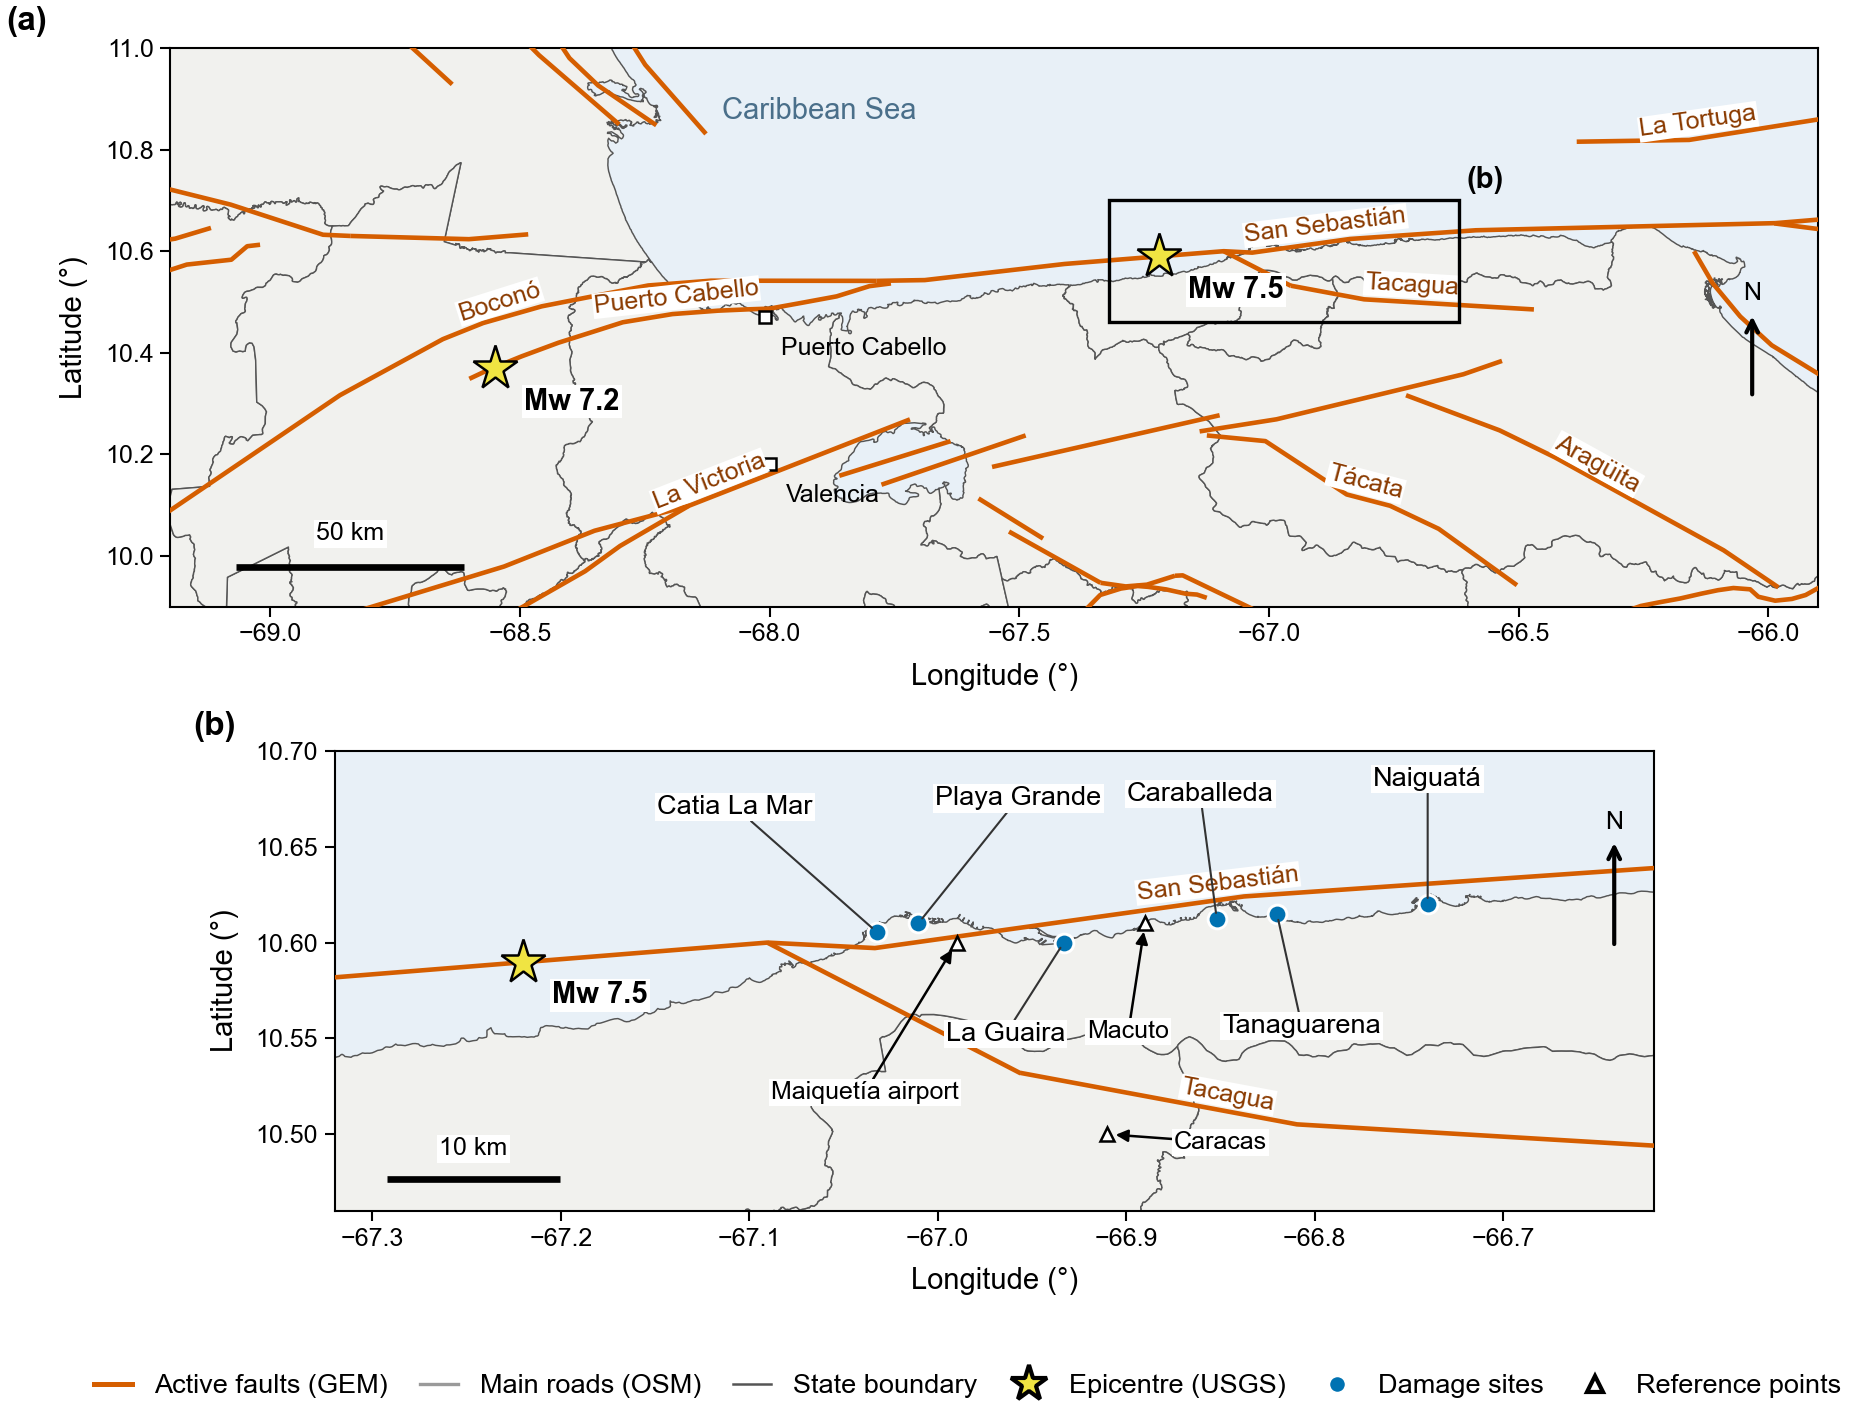
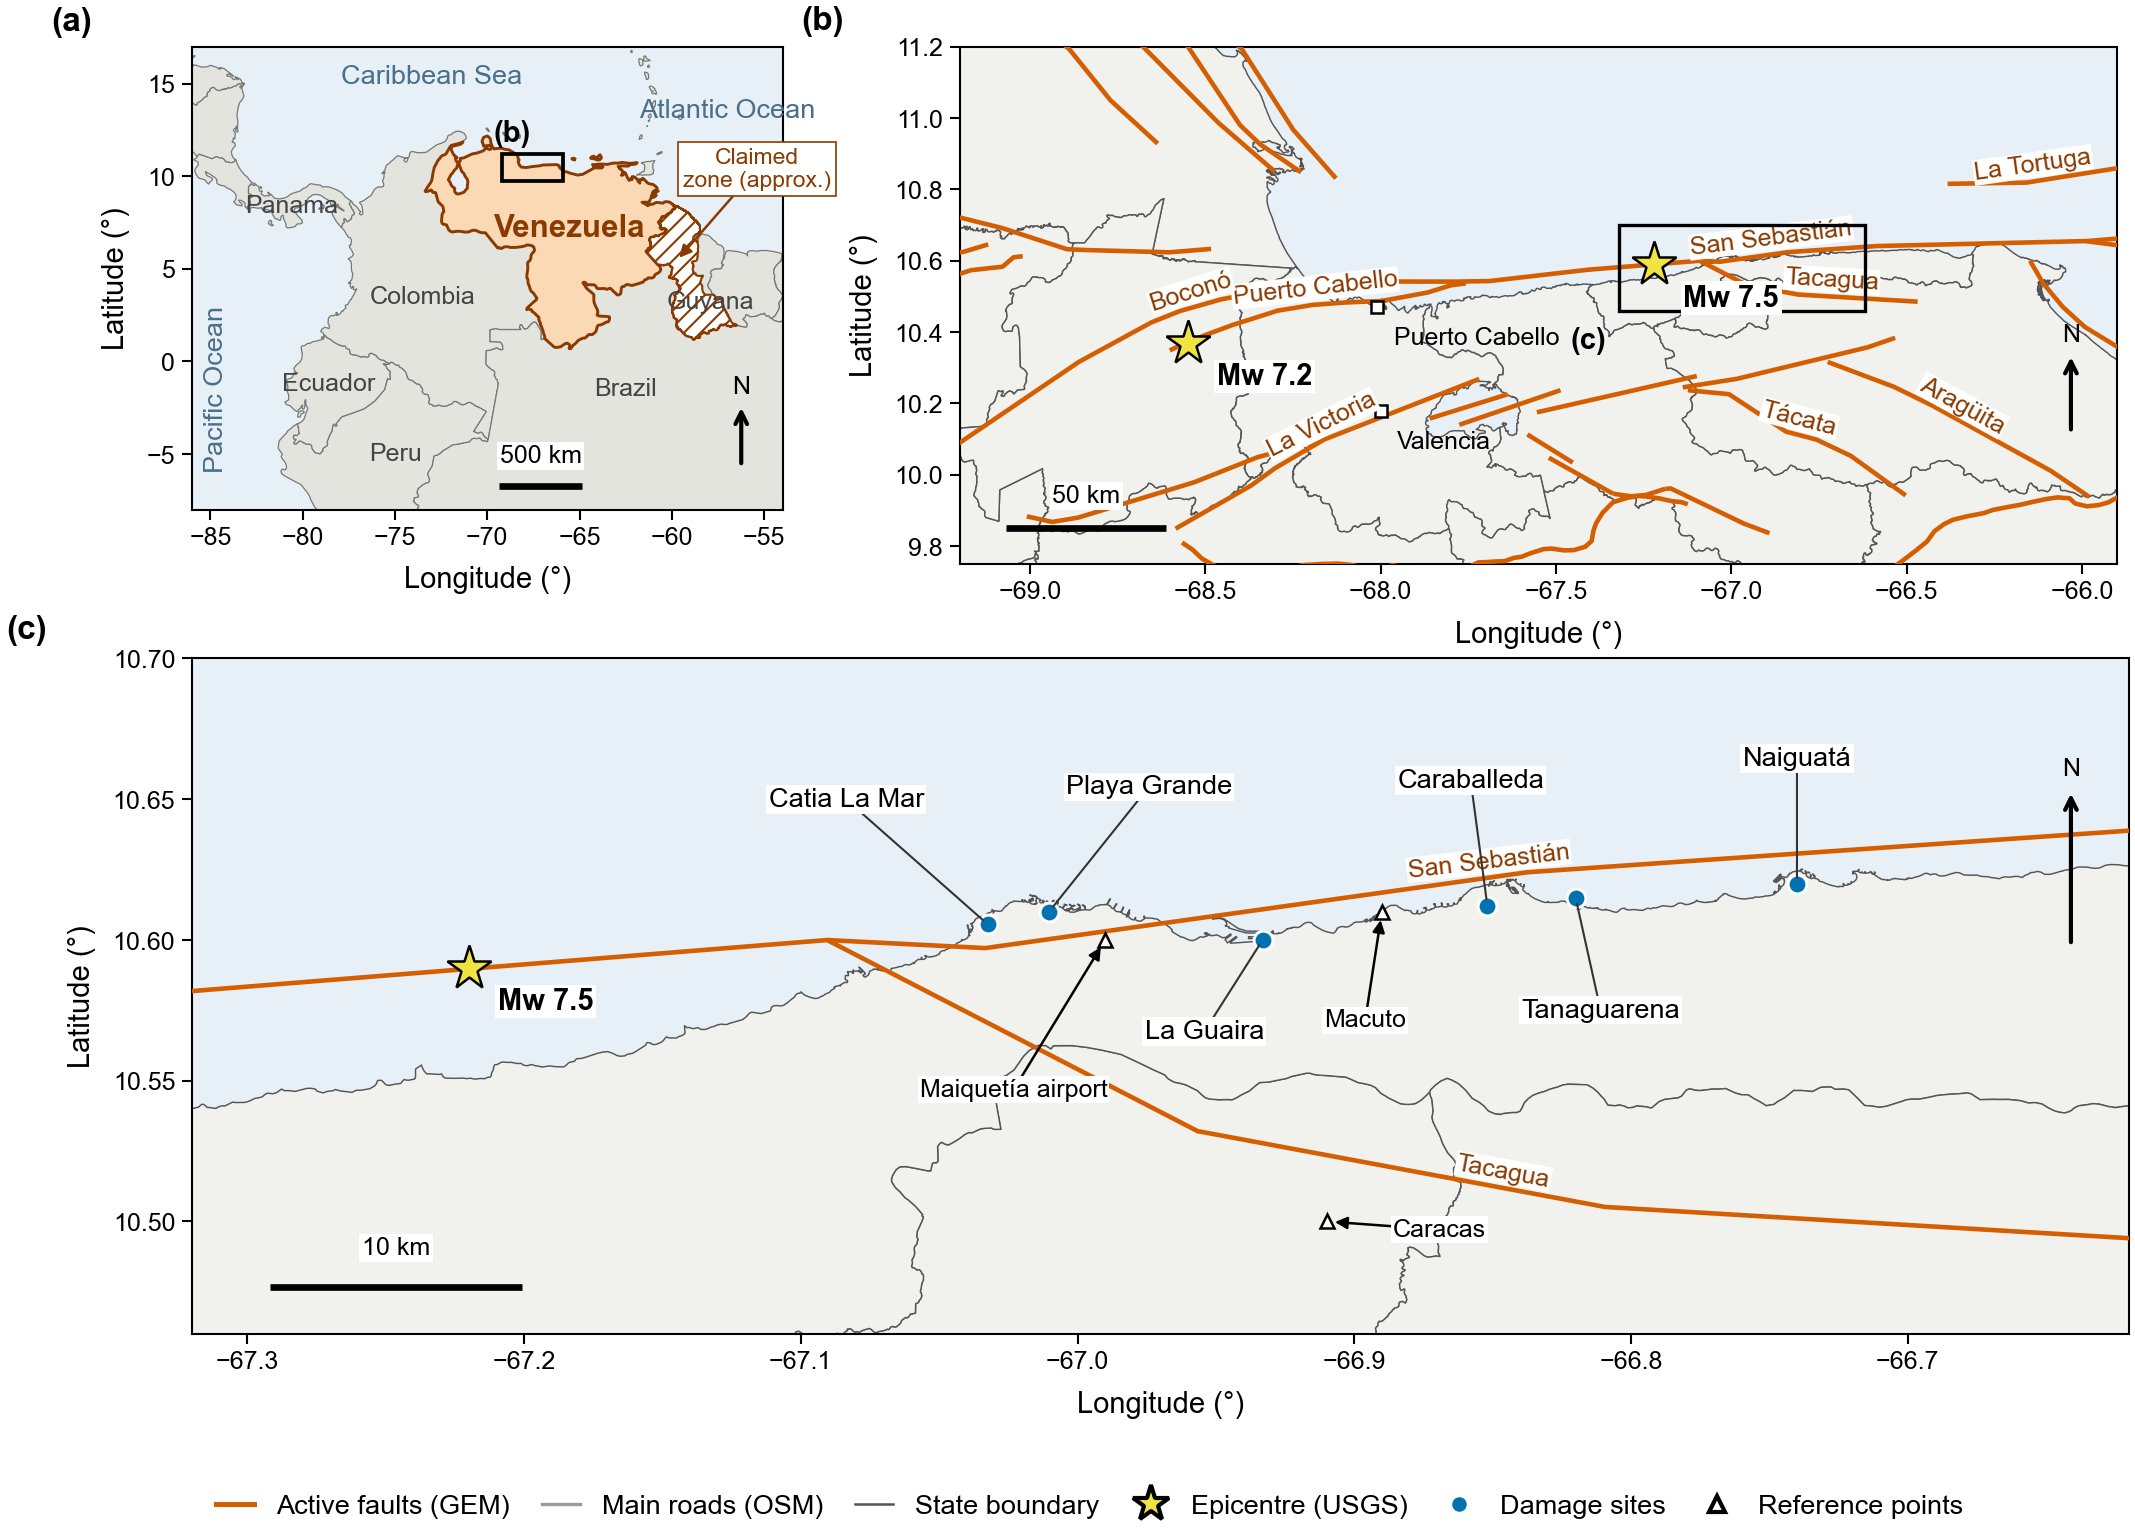
Mapa de ubicacion: 3 paneles (contexto Sudamerica, regional, costa), zona en reclamacion rayada (aprox.), tamanos a<b<c / 3-panel location map

diff --git a/src/mapa_ubicacion.py b/src/mapa_ubicacion.py
@@ -2,7 +2,7 @@
 """
 Figura de ubicación bilingüe (ES/EN) · candidata a Figura 1 / Bilingual location figure (candidate Fig. 1)
 
-(a) Regional: fallas activas, epicentros, recuadro de (b).   (b) Costa de La Guaira: 6 sitios de daño, referencias.
+(a) Contexto Sudamérica · (b) Regional: fallas, epicentros, recuadro de (c) · (c) Costa de La Guaira: 6 sitios de daño, referencias.
 Estilo / style: src/estilo_figuras.py (sin título interno, (a)(b) fuera, Okabe-Ito, SIN Esri / no Esri basemap).
 Lee / reads: <RAIZ>/01_datos_crudos/mapas_base/mapas_base.gpkg (lo crea mapas_base.py / created by mapas_base.py)
 Salida / output: <RAIZ>/04_figuras/borradores/mapa_ubicacion_{es,en}.{pdf,eps,tiff,png}
@@ -33,10 +33,13 @@ TXT.update({
     "u_sitios": {"es": "Sitios de daño", "en": "Damage sites"},
     "u_ref": {"es": "Referencias", "en": "Reference points"},
     "u_mar": {"es": "Mar Caribe", "en": "Caribbean Sea"},
+    "u_recl": {"es": "Zona en\nreclamación", "en": "Claimed\nzone (approx.)"},
+    "u_pac": {"es": "Océano Pacífico", "en": "Pacific Ocean"},
+    "u_atl": {"es": "Océano Atlántico", "en": "Atlantic Ocean"},
     "u_Playa Grande": {"es": "Playa Grande", "en": "Playa Grande"},
 })
 
-REG = (-69.2, -65.9, 9.9, 11.0)          # (a)
+REG = (-69.2, -65.9, 9.75, 11.2)          # (a)
 ZOOM = (-67.32, -66.62, 10.46, 10.70)    # (b)
 SITIOS = {  # nombre: (lat, lon, dx, dy en puntos / offsets in points) — escalonados para no solaparse / staggered
     "Catia La Mar": (10.6055, -67.0324, -34, 30), "Playa Grande": (10.6100, -67.0103, 24, 30),
@@ -58,6 +61,53 @@ def _capa(c):
 
 
 capas = {c: _capa(c) for c in ("venezuela_estados", "vias_principales_osm", "fallas_activas_gem", "epicentros_usgs")}
+MOSTRAR_RECLAMACION = globals().get("MOSTRAR_RECLAMACION", True)   # False → no dibujar la zona / do not draw the zone
+
+
+def _zona_reclamacion():
+    """Guayana Esequiba ≈ Guyana al oeste del río Esequibo. APROXIMADA: unión de regiones ADM1 de geoBoundaries
+    (Barima-Waini, Pomeroon-Supenaam, Cuyuni-Mazaruni, Potaro-Siparuni, Upper Takutu-Upper Essequibo + sur de East Berbice-Corentyne 'Tigri'). Reemplazar por el polígono oficial si se dispone.
+    Approximate 'zona en reclamación' (Essequibo claim area); replace with the official polygon if available."""
+    # 1) polígono oficial aportado por el usuario (si existe) / user-supplied official polygon (if present)
+    import glob
+    for f in sorted(glob.glob(os.path.join(os.path.dirname(GPKG), "zona_reclamacion_oficial.*"))):
+        if f.lower().endswith((".shp", ".geojson", ".json", ".gpkg")):
+            try:
+                return gpd.read_file(f).to_crs(4326)
+            except Exception as e:
+                print("[!] no pude leer / cannot read", f, e)
+    g = _capa("zona_reclamacion_aprox2")
+    if g is not None:
+        return g
+    try:
+        import io, requests
+        h = {"User-Agent": "GUAIRA-SAR research (github.com/jf-floresriera/SAR_multifrequency)"}
+        m = requests.get("https://www.geoboundaries.org/api/current/gbOpen/GUY/ADM1/", headers=h, timeout=60).json()
+        r = requests.get(m["gjDownloadURL"], headers=h, timeout=120); r.raise_for_status()
+        a = gpd.read_file(io.BytesIO(r.content)).to_crs(4326)
+        from shapely.geometry import box as _bx
+        oeste = a[a.shapeName.isin(["Barina-Waini", "Pomeroon-Supenaam", "Cuyuni-Mazaruni", "Potaro-Siparuni",
+                                    "Upper Takutu-Upper Essequibo"])].geometry.unary_union
+        tigri = a[a.shapeName == "East Berbice-Corentyne"].geometry.unary_union.intersection(_bx(-60, 0, -56, 3.6))
+        g = gpd.GeoDataFrame({"nombre": ["Zona en reclamación (aprox.)"]}, geometry=[oeste.union(tigri)], crs=4326)
+        try:
+            g.to_file(GPKG, layer="zona_reclamacion_aprox2", driver="GPKG")
+        except Exception:
+            pass
+        return g
+    except Exception as e:
+        print("[!] zona en reclamación:", e)
+        return None
+
+
+capas["paises"] = _capa("paises_sudamerica_ne50")
+if capas["paises"] is None:      # respaldo: bajar directamente / fallback: download directly
+    try:
+        from shapely.geometry import box as _box
+        _g = gpd.read_file("https://raw.githubusercontent.com/nvkelso/natural-earth-vector/master/geojson/ne_50m_admin_0_countries.geojson")
+        capas["paises"] = _g[_g.intersects(_box(-95, -60, -50, 20))]
+    except Exception as _e:
+        print("[!] sin mapa de contexto / no context map:", _e)
 
 
 def _escala(ax, km, loc=(0.04, 0.07)):
@@ -109,7 +159,7 @@ def _nombres_fallas(ax, ext, min_frac=0.12, size=6, pos=0.5):
             mejor[nom] = g
     umbral = min_frac * (ext[1] - ext[0])
     for nom, g in mejor.items():
-        if g.length < umbral:
+        if g.length < umbral or len(nom) > 16:      # rótulos largos no caben / long names do not fit
             continue
         p0, p1 = g.interpolate(pos - 0.05, normalized=True), g.interpolate(pos + 0.05, normalized=True)
         ang = np.degrees(np.arctan2((p1.y - p0.y), (p1.x - p0.x) * asp))
@@ -133,25 +183,84 @@ def _epicentros(ax, ext, etiquetas=True):
                             fontweight="bold", zorder=9, bbox=dict(fc="white", ec="none", pad=0.6, alpha=1))
 
 
+PAISES = {  # ADMIN de Natural Earth → (es, en, lon, lat): rótulos del mapa de contexto / context-map labels
+    "Colombia": ("Colombia", "Colombia", -73.5, 3.5), "Brazil": ("Brasil", "Brazil", -62.5, -1.5),
+    "Guyana": ("Guyana", "Guyana", -57.9, 3.2), "Panama": ("Panamá", "Panama", -80.6, 8.4),
+    "Ecuador": ("Ecuador", "Ecuador", -78.6, -1.2), "Peru": ("Perú", "Peru", -75.0, -5.0)}
+CTX = (-86.0, -54.0, -8.0, 17.0)         # (a) contexto continental / continental context
+
+
+def _contexto(ax, idioma):
+    """(a) Sudamérica y el Caribe: Venezuela resaltada + recuadro de (b)."""
+    ax.set_facecolor(C["mar"])
+    p = capas["paises"]
+    if p is not None:
+        p.plot(ax=ax, facecolor="#e4e4df", edgecolor="#777777", lw=0.3, zorder=1)
+        p[p.ADMIN == "Venezuela"].plot(ax=ax, facecolor="#fbd9b5", edgecolor="#8a3a00", lw=0.7, zorder=2)
+    if MOSTRAR_RECLAMACION:
+        z = _zona_reclamacion()
+        if z is not None:
+            plt.rcParams["hatch.linewidth"] = 0.5
+            # rayada, sin relleno de Venezuela: se distingue del país / hatched, not Venezuela's fill colour
+            z.plot(ax=ax, facecolor="white", edgecolor="#8a3a00", hatch="//////", lw=0.5, zorder=3)
+            ax.annotate(T("u_recl", idioma), xy=(-59.6, 5.6), xytext=(-55.4, 10.4), textcoords="data", fontsize=5.5,
+                        ha="center", va="center", color="#8a3a00", zorder=7,
+                        bbox=dict(fc="white", ec="#8a3a00", lw=0.4, pad=1.2),
+                        arrowprops=dict(arrowstyle="-|>", lw=0.6, color="#8a3a00", mutation_scale=6, shrinkA=0, shrinkB=0))
+    ax.set_xlim(CTX[0], CTX[1]); ax.set_ylim(CTX[2], CTX[3])
+    ax.set_aspect(1 / np.cos(np.radians((CTX[2] + CTX[3]) / 2)))
+    for k, (es, en, lo, la) in PAISES.items():
+        ax.text(lo, la, es if idioma == "es" else en, fontsize=6, ha="center", va="center", color="#444444", zorder=4)
+    ax.text(-65.6, 7.2, "Venezuela", fontsize=7.5, fontweight="bold", ha="center", va="center", color="#8a3a00", zorder=5)
+    ax.text(-73.0, 15.0, T("u_mar", idioma), fontsize=6.5, ha="center", color="#4a6f8a", zorder=4)
+    ax.text(-84.7, -1.5, T("u_pac", idioma), rotation=90, va="center", fontsize=6.5, ha="center", color="#4a6f8a", zorder=4)
+    ax.text(-57.0, 13.2, T("u_atl", idioma), fontsize=6.5, ha="center", color="#4a6f8a", zorder=4)
+    ax.add_patch(Rectangle((REG[0], REG[2]), REG[1] - REG[0], REG[3] - REG[2], fill=False, ec="k", lw=0.9, zorder=7))
+    ax.annotate("(b)", (REG[0], REG[3]), xytext=(-2, 3), textcoords="offset points", fontsize=7, fontweight="bold", zorder=8)
+    ax.tick_params(length=2.5, pad=1.5)
+    _escala(ax, 500, loc=(0.52, 0.05)); flecha_norte(ax, loc=(0.93, 0.22), largo=0.12)
+    ax.set_xlabel(T("longitud", idioma)); ax.set_ylabel(T("latitud", idioma))
+
+
 def _mapa(idioma):
     aplicar_estilo(7)
-    fig = plt.figure(figsize=(180 / 25.4, 128 / 25.4))
-    gs = fig.add_gridspec(2, 1, height_ratios=[1.0, 0.82], hspace=0.28)
-    a = fig.add_subplot(gs[0]); b = fig.add_subplot(gs[1])
+    W, H = 180.0, 140.0                                  # mm = tamaño final / final size
 
-    # (a) regional
+    def _eje(x, y, w, h):
+        return fig.add_axes([x / W, y / H, w / W, h / H])
+    fig = plt.figure(figsize=(W / 25.4, H / 25.4))
+    c_w = 50.0; c_h = c_w * (CTX[3] - CTX[2]) / ((CTX[1] - CTX[0]) * np.cos(np.radians((CTX[2] + CTX[3]) / 2)))
+    a_w = 98.0; a_h = a_w * (REG[3] - REG[2]) / ((REG[1] - REG[0]) * np.cos(np.radians((REG[2] + REG[3]) / 2)))
+    b_w = 164.0; b_h = b_w * (ZOOM[3] - ZOOM[2]) / ((ZOOM[1] - ZOOM[0]) * np.cos(np.radians((ZOOM[2] + ZOOM[3]) / 2)))
+    fila1 = max(c_h, a_h)
+    y_b = 17.0                                           # deja sitio a eje x y leyenda / room for x-axis and legend
+    y_top = y_b + b_h + 8.0                             # separación entre filas / row gap
+    c = _eje(14.0, y_top + fila1 - c_h, c_w, c_h)
+    a = _eje(14.0 + c_w + 15.0, y_top + fila1 - a_h, a_w, a_h)
+    b = _eje(14.0, y_b, b_w, b_h)
+    fig.set_size_inches(W / 25.4, (y_top + fila1 + 5.0) / 25.4)
+    # reescalar posiciones a la altura final / rescale positions to final height
+    H2 = y_top + fila1 + 5.0
+    for ax_, (x_, y_, w_, h_) in ((c, (14.0, y_top + fila1 - c_h, c_w, c_h)), (a, (14.0 + c_w + 15.0, y_top + fila1 - a_h, a_w, a_h)),
+                                  (b, (14.0, y_b, b_w, b_h))):
+        ax_.set_position([x_ / W, y_ / H2, w_ / W, h_ / H2])
+
+    # (a) contexto continental / continental context
+    # (a) contexto: Sudamérica / continental context
+    _contexto(c, idioma); etiqueta_panel(c, "a", dx=-0.17)
+
+    # (b) regional
     _fondo(a, REG); _nombres_fallas(a, REG); _epicentros(a, REG)
     for n, (la, lo) in CIUDADES.items():
         a.plot(lo, la, "s", ms=3, mfc="white", mec="k", mew=0.6, zorder=6)
         a.annotate(n, (lo, la), xytext=(4, -9), textcoords="offset points", fontsize=6, zorder=7)
-    a.text(-67.9, 10.86, T("u_mar", idioma), fontsize=7, style="normal", color="#4a6f8a", ha="center")
     a.add_patch(Rectangle((ZOOM[0], ZOOM[2]), ZOOM[1] - ZOOM[0], ZOOM[3] - ZOOM[2], fill=False, ec="k", lw=0.8, zorder=7))
-    a.annotate("(b)", (ZOOM[1], ZOOM[3]), xytext=(2, 3), textcoords="offset points", fontsize=7, fontweight="bold")
-    _escala(a, 50); flecha_norte(a, loc=(0.96, 0.52), largo=0.14)
+    a.annotate("(c)", (ZOOM[0], ZOOM[2]), xytext=(-3, -9), ha="right", textcoords="offset points", fontsize=7, fontweight="bold")
+    _escala(a, 50); flecha_norte(a, loc=(0.96, 0.40), largo=0.14)
     a.set_xlabel(T("longitud", idioma)); a.set_ylabel(T("latitud", idioma))
-    etiqueta_panel(a, "a", dx=-0.075)
+    etiqueta_panel(a, "b", dx=-0.1)
 
-    # (b) costa de La Guaira
+    # (c) costa de La Guaira
     _fondo(b, ZOOM); _nombres_fallas(b, ZOOM, min_frac=0.25, pos=0.33); _epicentros(b, ZOOM)
     for n, (la, lo, dx, dy, ha) in REFS.items():
         b.plot(lo, la, "^", ms=3.5, mfc="white", mec="k", mew=0.6, zorder=6)
@@ -166,7 +275,7 @@ def _mapa(idioma):
                    arrowprops=dict(arrowstyle="-", lw=0.5, color="0.2", shrinkA=0, shrinkB=1.5))
     _escala(b, 10); flecha_norte(b, loc=(0.97, 0.80), largo=0.22)
     b.set_xlabel(T("longitud", idioma)); b.set_ylabel(T("latitud", idioma))
-    etiqueta_panel(b, "b", dx=-0.075)
+    etiqueta_panel(b, "c", dx=-0.075)
 
     h = [Line2D([], [], color=C["falla"], lw=1.2, label=T("u_fallas", idioma)),
          Line2D([], [], color=C["via"], lw=0.8, label=T("u_vias", idioma)),
@@ -174,7 +283,7 @@ def _mapa(idioma):
          Line2D([], [], marker="*", ls="", ms=9, mfc="#F0E442", mec="k", label=T("u_epi", idioma)),
          Line2D([], [], marker="o", ls="", ms=4.5, mfc=C["sitio"], mec="white", label=T("u_sitios", idioma)),
          Line2D([], [], marker="^", ls="", ms=4, mfc="white", mec="k", label=T("u_ref", idioma))]
-    fig.legend(handles=h, loc="lower center", ncol=6, frameon=False, bbox_to_anchor=(0.5, -0.03),
+    fig.legend(handles=h, loc="lower center", ncol=6, frameon=False, bbox_to_anchor=(0.5, -0.005),
                handlelength=1.4, columnspacing=1.2, fontsize=6.5)
     return fig
 

diff --git a/src/mapas_base.py b/src/mapas_base.py
@@ -113,6 +113,15 @@ SITIOS = {"Catia La Mar": (10.6055, -67.0324), "Playa Grande": (10.6100, -67.010
 sitios = gpd.GeoDataFrame([dict(sitio=k, geometry=Point(v[1], v[0])) for k, v in SITIOS.items()], crs=4326)
 guardar(sitios, "sitios_danio")
 
+# 4b) Países de Sudamérica y el Caribe (Natural Earth 1:50 m, dominio público) para el mapa de contexto
+try:
+    _ne = gpd.read_file("https://raw.githubusercontent.com/nvkelso/natural-earth-vector/master/geojson/ne_50m_admin_0_countries.geojson")
+    _ne = _ne[_ne.intersects(box(-95, -60, -50, 20))][["ADMIN", "NAME", "NAME_ES", "ISO_A3", "geometry"]]
+    guardar(_ne, "paises_sudamerica_ne50")
+    fuentes.append(("Natural Earth 1:50m Admin 0 (países / countries)", "https://www.naturalearthdata.com", "public domain"))
+except Exception as e:
+    print(f"[!] Natural Earth: {e}")
+
 csv_bilingue(pd.DataFrame(fuentes, columns=["fuente", "url", "licencia"]).assign(
     fecha_acceso=pd.Timestamp.today().date().isoformat()), f"{RAIZ}/05_documentacion/fuentes_mapas_base.csv")
 
